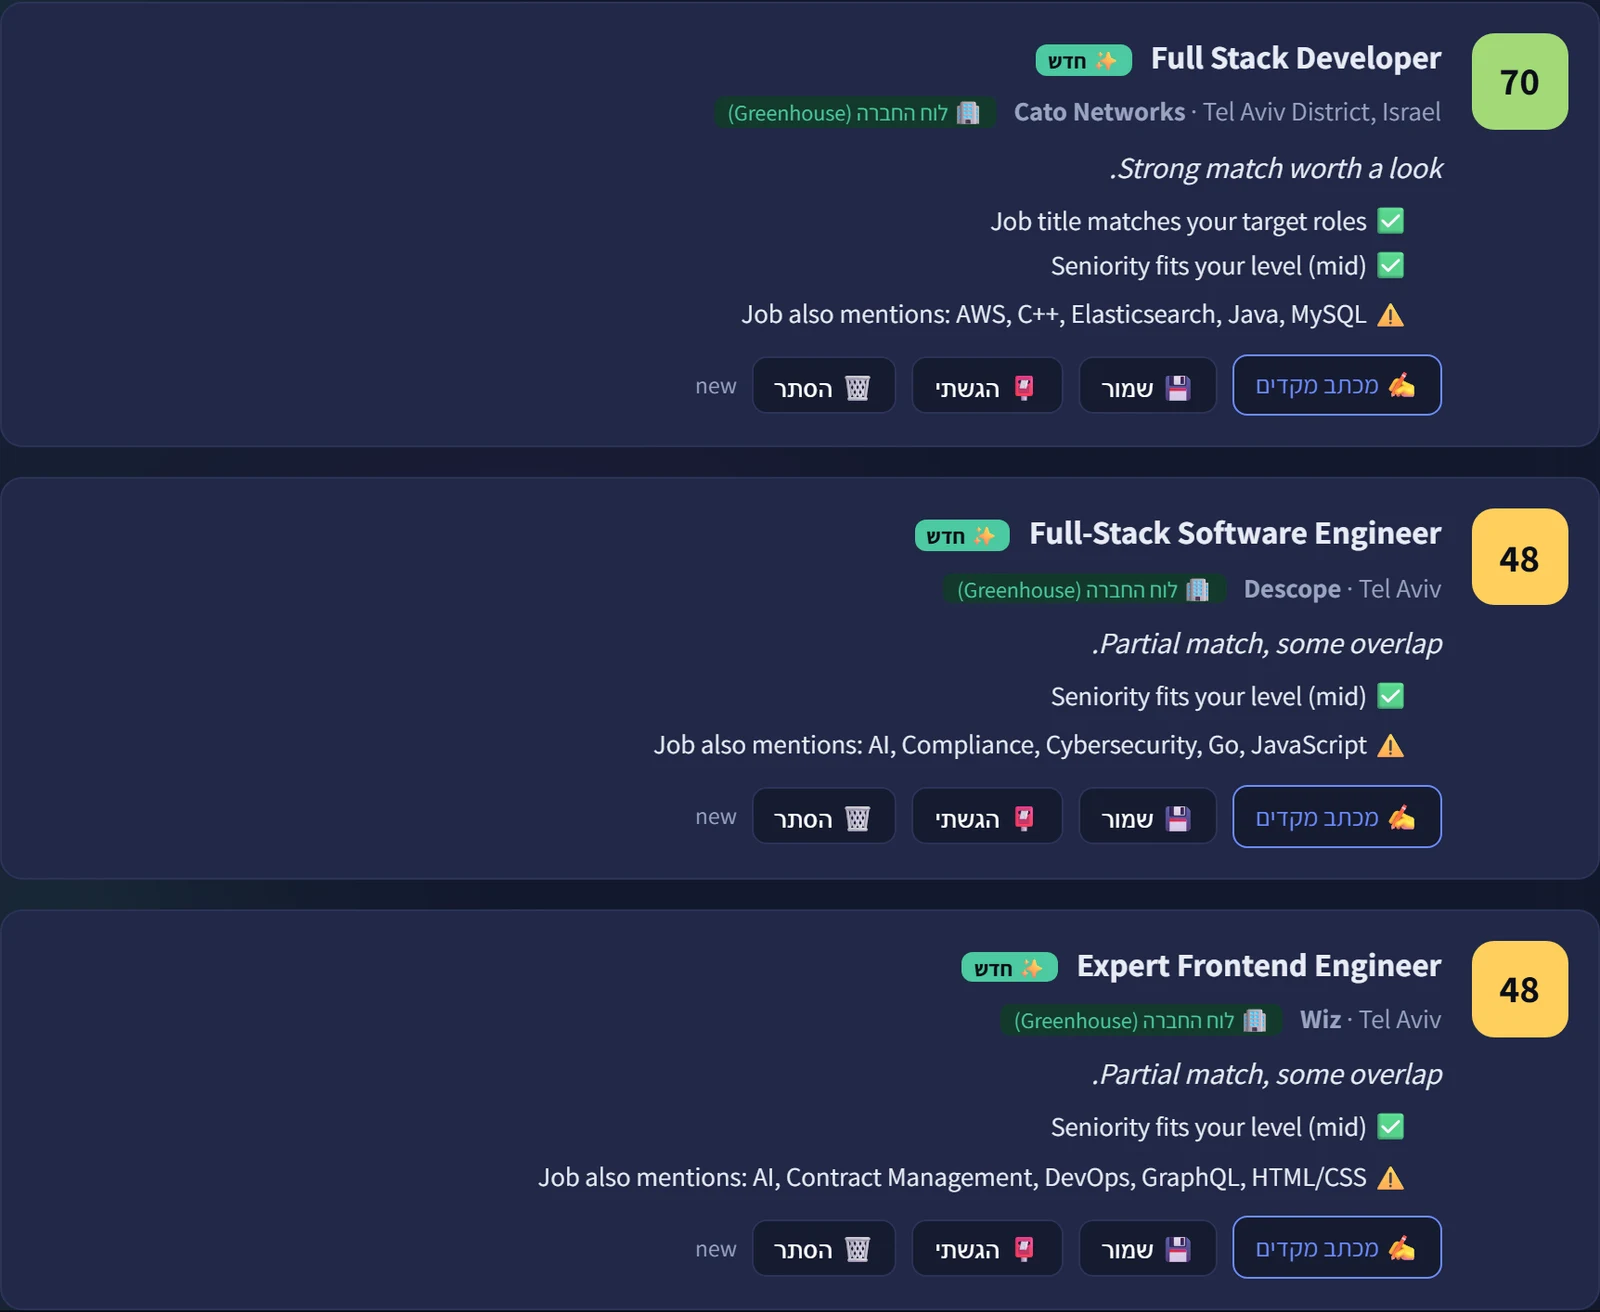
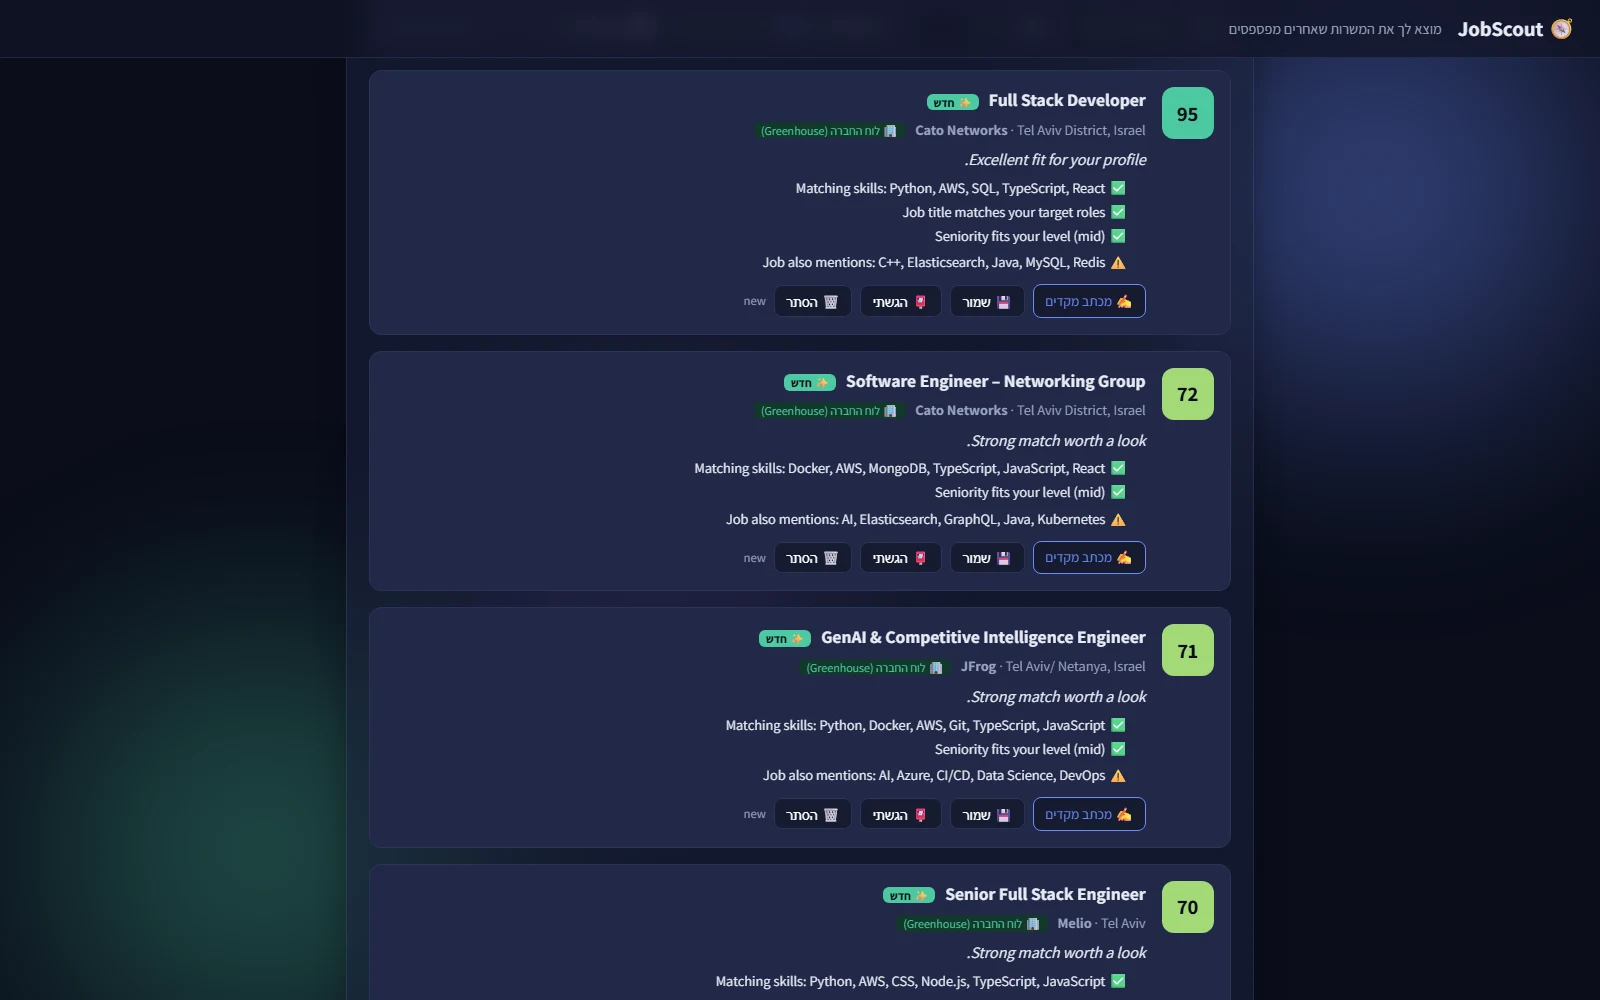
Show a real excellent match on JobScout instead of a middling one
The scoreboard showed a top score of 70 with zero matches at 80 or above,
which undersold the product. The scored 60s came from a thin profile with
no listed skills, so nothing shared with a posting could push the score up.

capture-jobscout.mjs now builds a realistic profile against three related
titles, then adds a broad web-stack skill set directly through the API
once a candidate token exists, faster and more reliable than driving the
type-a-skill chip UI through Playwright. Against real postings that scores
a genuine 95, "Excellent fit for your profile", with 104 total matches and
one at 80 or above.

capture-jobscout-scoreboard.mjs is a clean rebuild of the same script that
existed before: the stats bar at 2x for a crisp thin banner, the ranked
list at 1x, screenshotting an already-scanned candidate.

diff --git a/src/data/projects.ts b/src/data/projects.ts
@@ -370,19 +370,19 @@ export const projects: Project[] = [
       },
       {
         src: "/screenshots/jobscout-scoreboard.webp",
-        alt: "JobScout scoreboard showing 25 companies, an average score of 46, a maximum score of 70 and 76 matches",
+        alt: "JobScout scoreboard showing 29 companies, an average score of 58, a maximum score of 95 and 104 matches",
         caption:
-          "The scoreboard from a real scan: twenty five companies, seventy six matches, a top score of seventy.",
+          "The scoreboard from a real scan: twenty nine companies, a hundred and four matches, a top score of ninety five.",
         wide: true,
         ratio: "1600 / 203",
       },
       {
         src: "/screenshots/jobscout-matches.webp",
-        alt: "Ranked JobScout matches with colour coded scores and the reasons behind each one",
+        alt: "Ranked JobScout matches led by a 95 scored Full Stack Developer role, each with the reasons behind its score",
         caption:
-          "Every match ranked and scored, with the reasoning shown rather than hidden behind the number.",
+          "Every match ranked and scored, with the reasoning shown rather than hidden behind the number. This one scored ninety five: an excellent fit.",
         wide: true,
-        ratio: "1600 / 1312",
+        ratio: "1600 / 1000",
       },
     ],
     accent: "#a78bfa",
